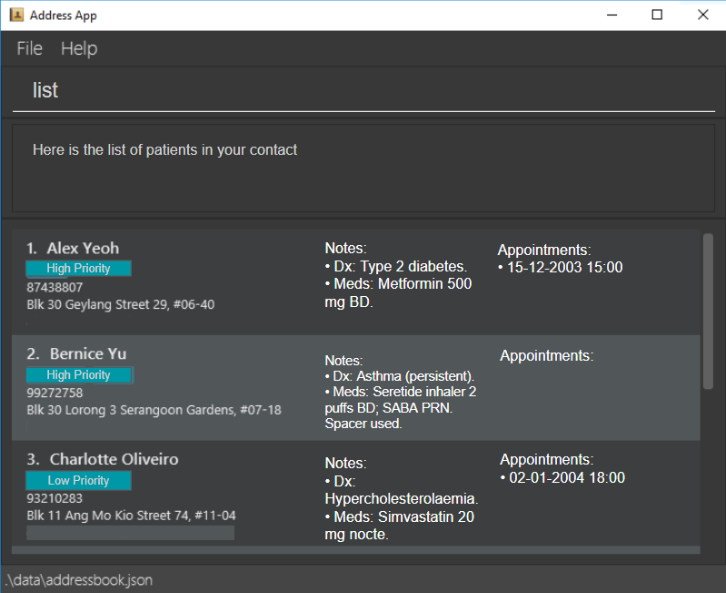
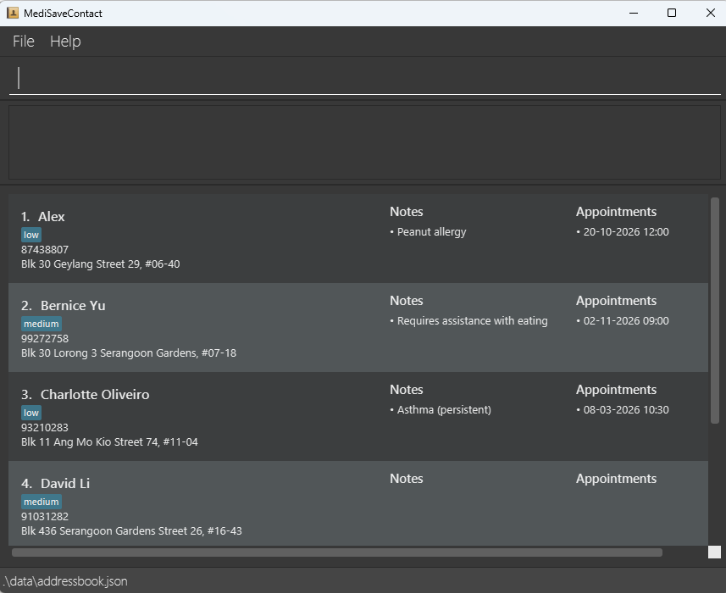
Update Introduction and Quick Start sections

diff --git a/src/main/java/seedu/address/model/util/SampleDataUtil.java b/src/main/java/seedu/address/model/util/SampleDataUtil.java
@@ -6,12 +6,7 @@ import java.util.stream.Collectors;
 
 import seedu.address.model.AddressBook;
 import seedu.address.model.ReadOnlyAddressBook;
-import seedu.address.model.person.Address;
-import seedu.address.model.person.Name;
-import seedu.address.model.person.Note;
-import seedu.address.model.person.Patient;
-import seedu.address.model.person.Person;
-import seedu.address.model.person.Phone;
+import seedu.address.model.person.*;
 import seedu.address.model.tag.Tag;
 
 /**
@@ -22,19 +17,23 @@ public class SampleDataUtil {
         return new Person[] {
             new Patient(new Name("Alex"), new Phone("87438807"),
                 new Address("Blk 30 Geylang Street 29, #06-40"),
-                new Tag("low"), new Note("Peanut allergy")),
+                new Tag("low"), new Note("Peanut allergy"),
+                new Appointment("20-10-2026", "12:00")),
             new Patient(new Name("Bernice Yu"), new Phone("99272758"),
                 new Address("Blk 30 Lorong 3 Serangoon Gardens, #07-18"),
-                new Tag("medium")),
+                new Tag("medium"), new Note("Requires assistance with eating"),
+                new Appointment("02-11-2026", "09:00")),
             new Patient(new Name("Charlotte Oliveiro"), new Phone("93210283"),
                 new Address("Blk 11 Ang Mo Kio Street 74, #11-04"),
-                new Tag("low")),
+                new Tag("low"), new Note("Asthma (persistent)"),
+                new Appointment("08-03-2026", "10:30")),
             new Patient(new Name("David Li"), new Phone("91031282"),
                 new Address("Blk 436 Serangoon Gardens Street 26, #16-43"),
                 new Tag("medium")),
             new Patient(new Name("Irfan Ibrahim"), new Phone("92492021"),
                 new Address("Blk 47 Tampines Street 20, #17-35"),
-                new Tag("high")),
+                new Tag("high"), new Note("Type 2 Diabetes"),
+                new Appointment("15-04-2026", "11:30")),
             new Patient(new Name("Roy Balakrishnan"), new Phone("92624417"),
                 new Address("Blk 45 Aljunied Street 85, #11-31"),
                 null)

diff --git a/docs/UserGuide.md b/docs/UserGuide.md
@@ -3,9 +3,14 @@ layout: page
 title: User Guide
 ---
 
+### Rationale
+
 MediSaveContact is designed for nurses and healthcare workers who provide care outside traditional hospital settings. 
 The application focuses on quick data entry and retrieval through a command-line interface, making it faster to manage 
 patient information during busy schedules.
+
+
+## Table of Contents 
 
 * Table of Contents
 {:toc}
@@ -14,15 +19,15 @@ patient information during busy schedules.
 
 ## Quick start
 
-1. Ensure you have Java `17` or above installed in your Computer.<br>
-   **Mac users:** Ensure you have the precise JDK version prescribed [here](https://se-education.org/guides/tutorials/javaInstallationMac.html).
+1. Ensure you have Java 17 or above installed in your Computer, following this [guide](https://se-education.org/guides/tutorials/javaInstallation.html).
 
-1. Download the latest `.jar` file from [here](https://github.com/AY2526S1-CS2103T-F14b-2/tp/tags).
+1. Download the latest `.jar` file [here](https://github.com/AY2526S1-CS2103T-F14b-2/tp/releases).
 
-1. Copy the file to the folder you want to use as the _home folder_ for your AddressBook.
+1. Copy the file to the folder you want to use as the _home folder_ for your MediSaveContact.
 
-1. Open a command terminal, `cd` into the folder you put the jar file in, and use the `java -jar addressbook.jar` command to run the application.<br>
-   A GUI similar to the below should appear in a few seconds. Note how the app contains some sample data.<br>
+1. For **Window** Users: Locate MediSaveContact in your file manager and double click on the application.<br>
+   For **Mac/Linux** users: Open a command terminal, `cd` (change directory) into the folder you put the jar file in, and use the `java -jar addressbook.jar` command to run the application.<br>
+   An application similar to the one below should appear in a few seconds. Note how the app contains some sample data.<br>
    ![Ui](images/Ui.png) <br>
 
 1. Type the command in the command box and press Enter to execute it. e.g. typing **`help`** and pressing Enter will open the help window.<br>
@@ -30,21 +35,9 @@ patient information during busy schedules.
 
     * `help` : Shows all commands available in the application.
 
-    * `list` : Lists all contacts.
-
    * `add n/John Tan p/91234567 a/Blk 123 Clementi Ave 3 [t/High]` : Adds a contact named `John Tan` to the Address Book.
-
-   * `appointment 1 d/15-11-2025 t/20:03` : Adds a new appointment to patient 1 scheduled at `15-11-2025 20:03`.
-   
-   * `note 3 note/Patient is stable` : Add notes `Patient is stable` to patient 3's record.
-   
-   * `find John` : Finds and displays patients that contains `John` in their names.
-   
-   * `view 1` : Views a patient's details
    
    * `delete 3` : Deletes the 3rd contact shown in the current list.
-
-   * `clear` : Deletes all contacts.
 
    * `exit` : Exits the app.
 
